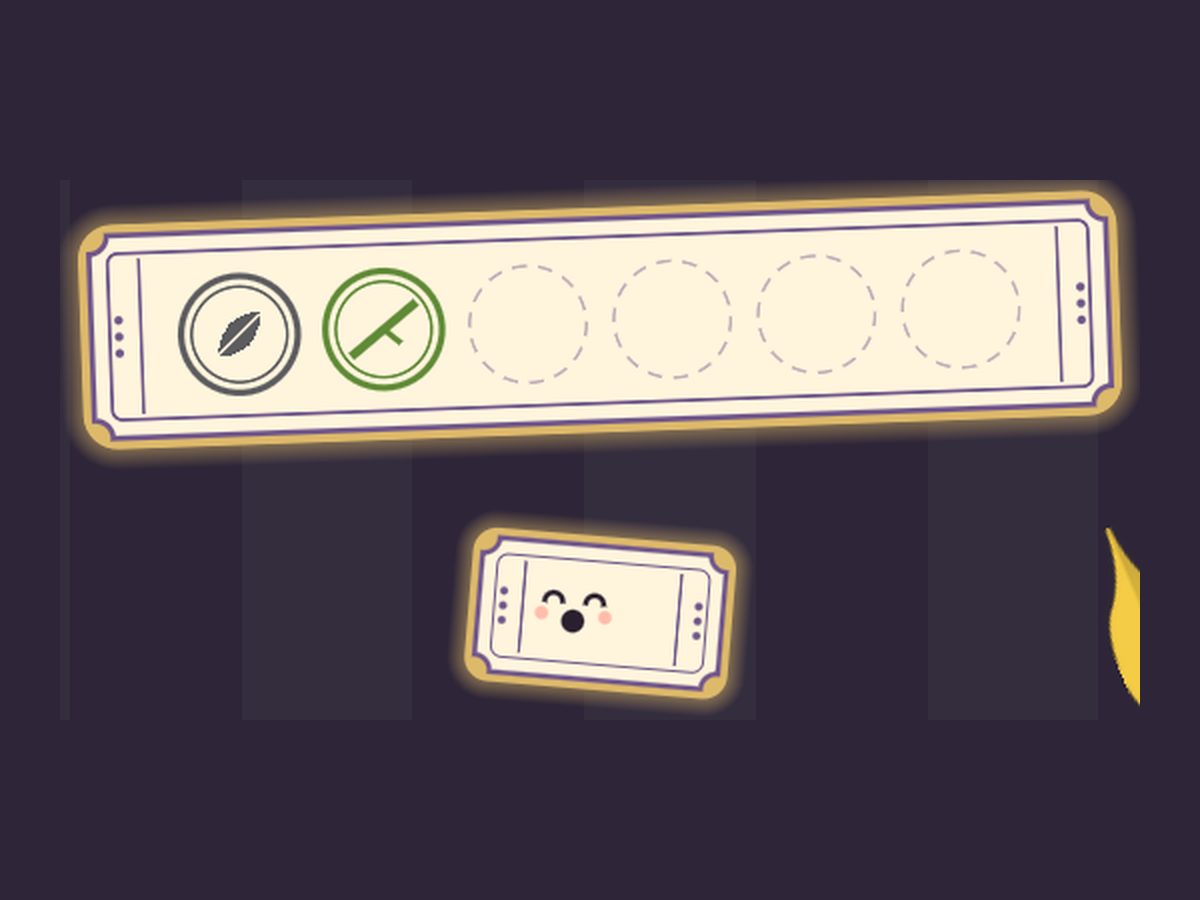
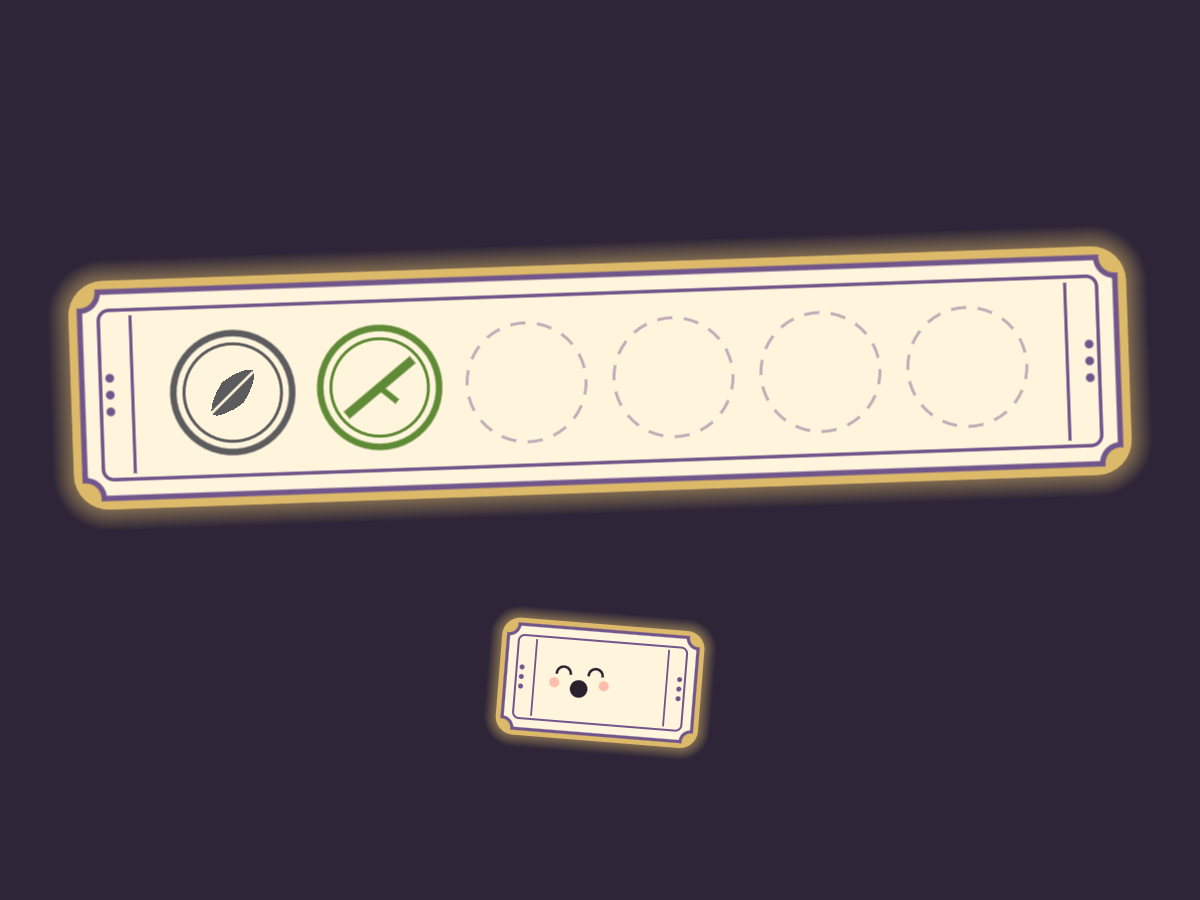
The carousel spinning on top; the bosses card without the stray leaf
An 8 s looping WebP of the carousel turning (SiteClip.tscn + make_site_clip.py
in the game repo) replaces the still capsule at the top; the Season Ticket
card is rendered on its own (the ticket and Stub on the plum).

Changed region(s): [[0.0308, 0.1867, 0.9558, 0.84], [0.925, 0.5911, 0.9558, 0.7778], [0.5858, 0.3733, 0.6475, 0.4044]]

diff --git a/index.html b/index.html
@@ -32,8 +32,8 @@
 
   <main>
     <section class="hero">
-      <img class="capsule" src="images/idle-carousel-capsule.png" width="1232" height="706"
-           alt="Idle Carousel: a carousel with animal mounts inside a ring of lights, the Idle Carousel sign, a Season Ticket with two boss stamps, and Stub the ticket mascot.">
+      <img class="capsule" src="images/carousel-spin.webp" width="560" height="420"
+           alt="The carousel spinning in the park, its animal mounts sweeping falling leaves away, with ticket booths around it.">
       <div class="hero-text">
         <h1>Idle Carousel</h1>
         <p class="pitch">Keep the carousel spinning! Leaves, sticks and rocks blow in from every side and latch on. Put animals on the carousel to sweep them away, earn Gold, and restore the park.</p>
